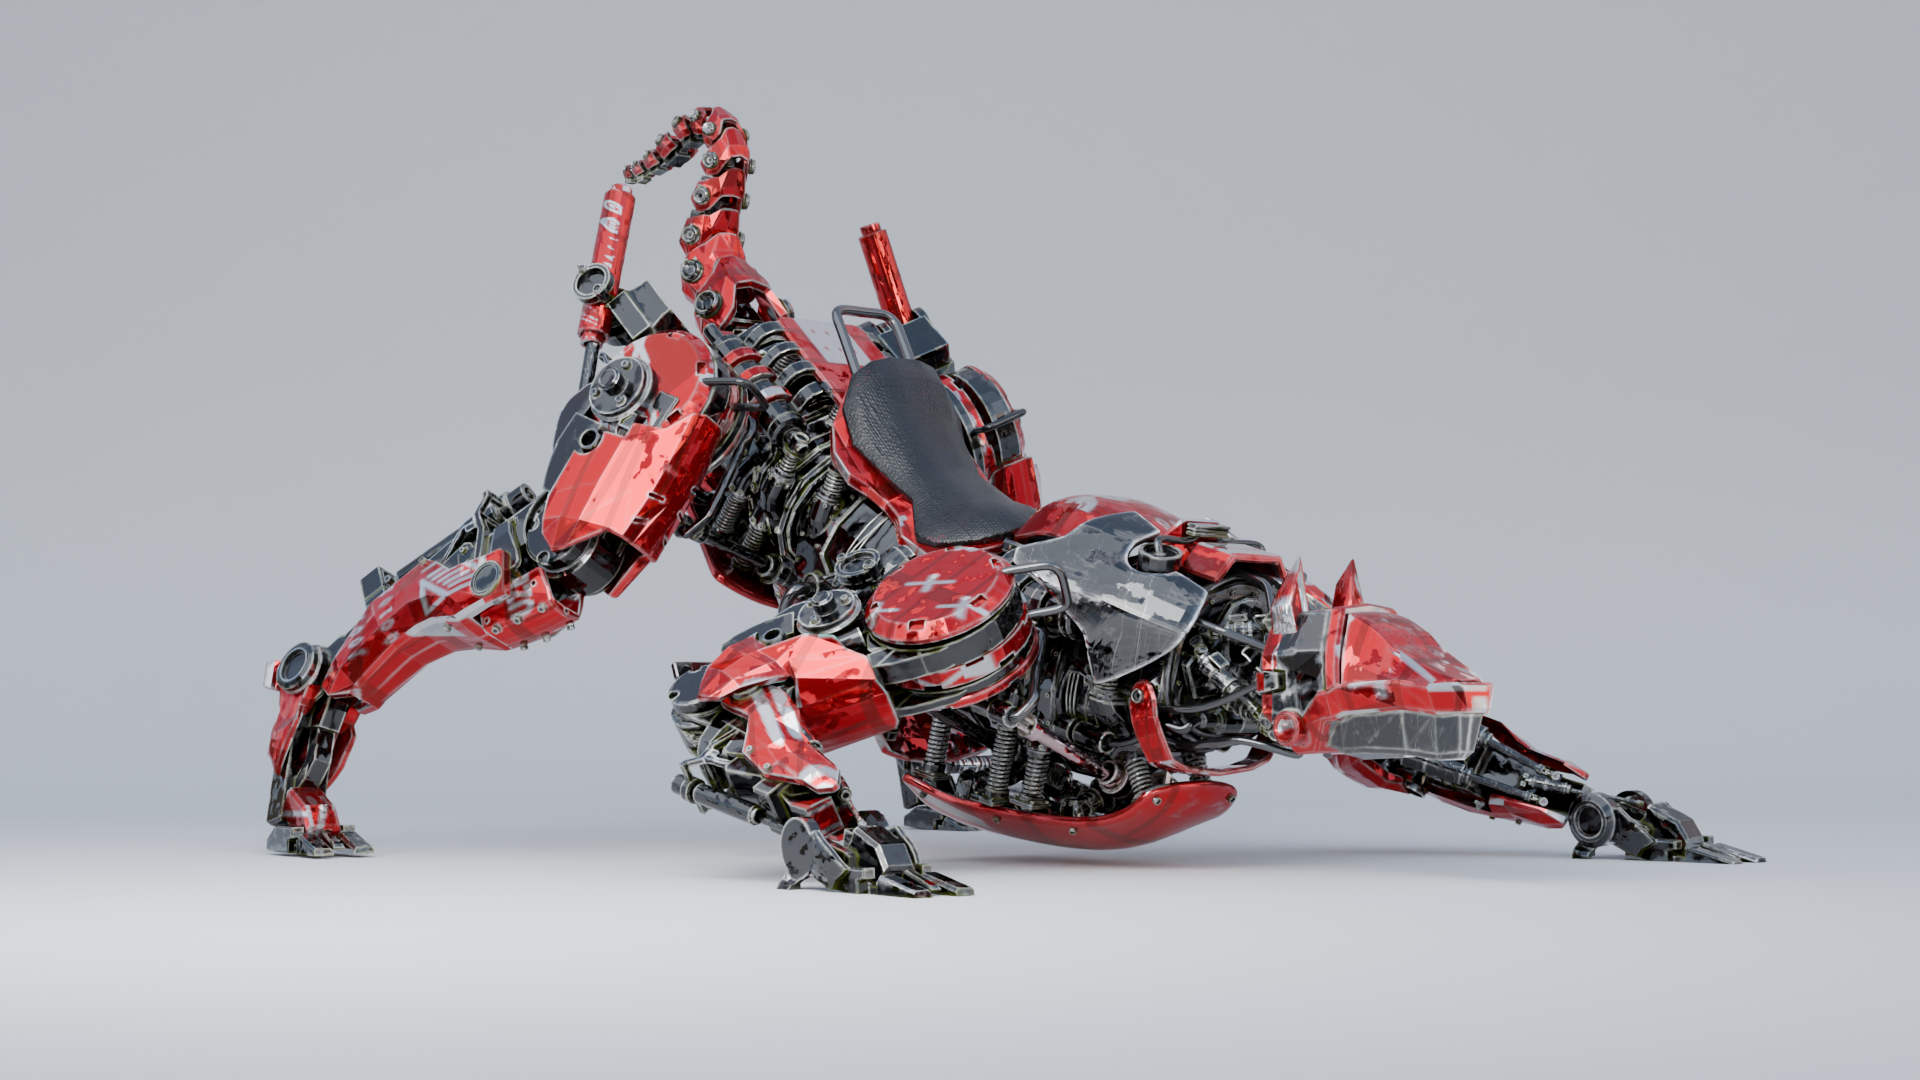
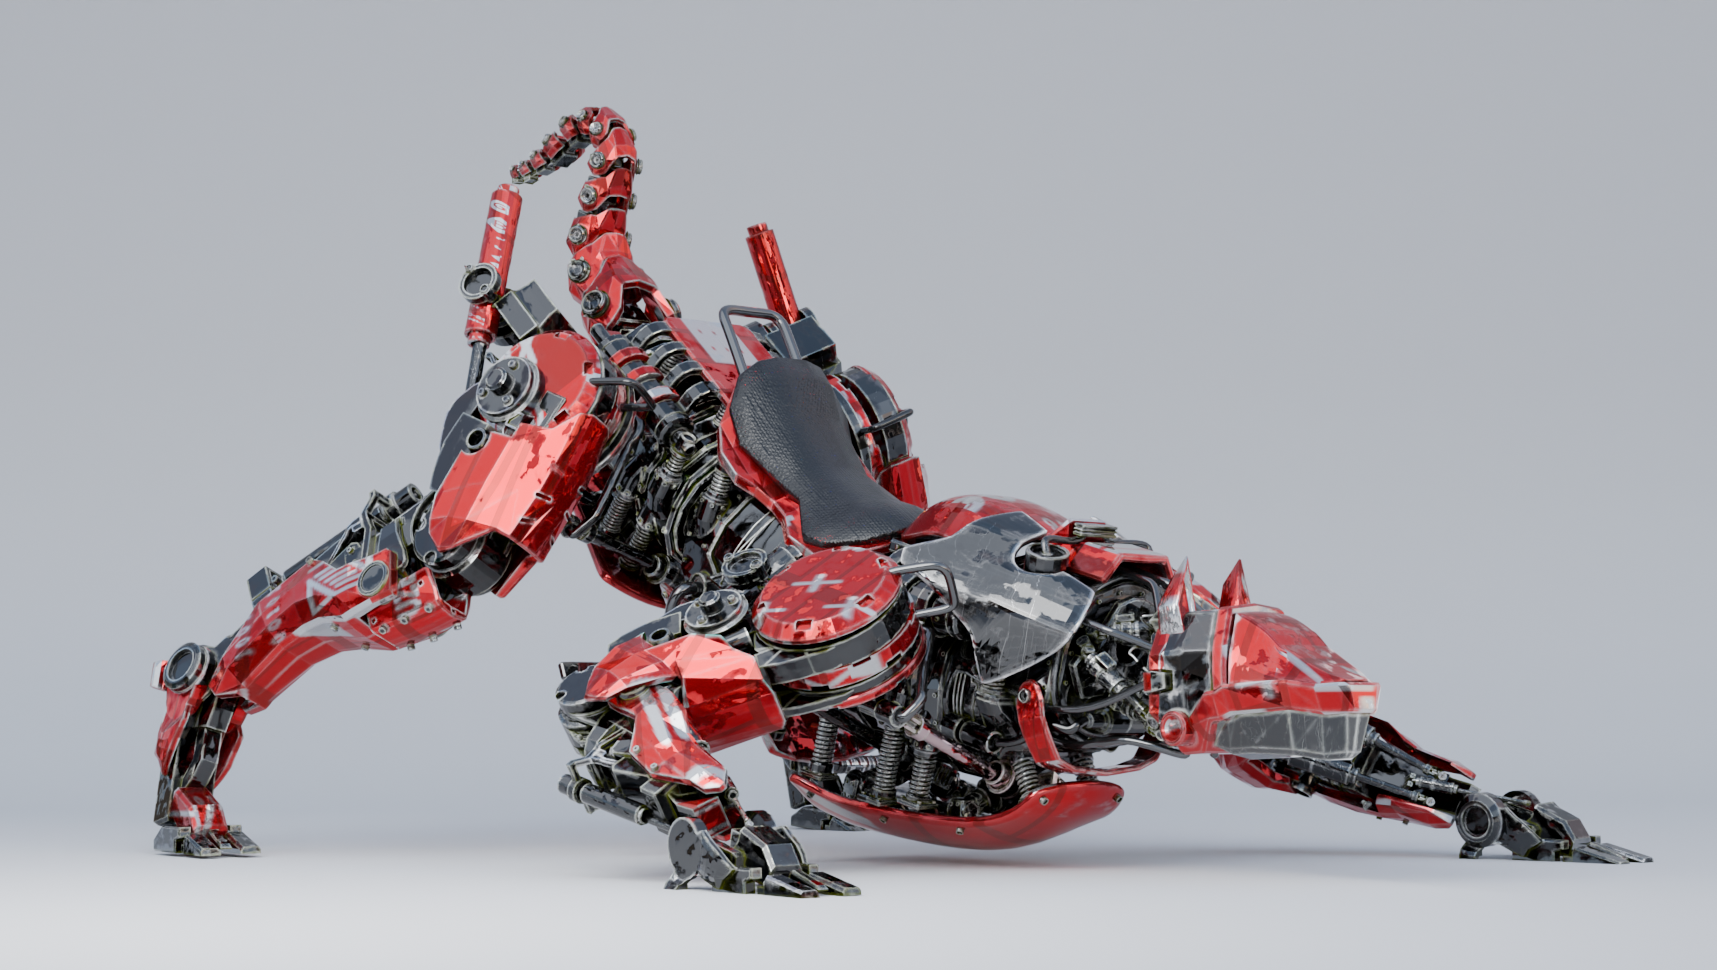
dfs

Changed region(s): [[0.0, 0.0928, 0.9569, 0.9278]]

diff --git a/js/main.js b/js/main.js
@@ -873,7 +873,7 @@ function initWorkCategories() {
             { title: 'CHASE', description: '2分のフルCG映像作品', year: '2024', image: 'images/work28.png' },
             { title: 'U30 3DCG Vision Contest 2022', description: '30秒のフルCG映像作品', year: '2024', image: 'images/work9.png' },
             { title: 'オリジナルキャラクター制作', description: '人物キャラクター研究制作', year: '2023', image: 'images/work58.png' },
-            { title: 'ハードサーフィスキャラクター製作1', description: '機械、仕組みに重きを置いたキャラクター製作', year: '2024', image: 'images/work16.png' }
+            { title: 'ハードサーフィスキャラクター製作1', description: '機械、仕組みに重きを置いたキャラクター製作', year: '2024', image: 'images/74.png' }
         ],
         work: [
             { title: '祇園銀座百鬼夜行<br>京都市立芸術大学展示', description: '48秒のVFX映像作品', year: '2024', image: 'images/work2.png' },
@@ -888,7 +888,7 @@ function initWorkCategories() {
         ],
         personal: [
             { title: 'オリジナルキャラクター制作', description: '人物キャラクター研究制作', year: '2023', image: 'images/work58.png', workId: 'work9' },
-            { title: 'ハードサーフィスキャラクター製作1', description: '機械、仕組みに重きを置いたキャラクター製作', year: '2024', image: 'images/work16.png', workId: 'work10' },
+            { title: 'ハードサーフィスキャラクター製作1', description: '機械、仕組みに重きを置いたキャラクター製作', year: '2024', image: 'images/74.png', workId: 'work10' },
             { title: 'CHASE', description: '2分のフルCG映像作品', year: '2024', image: 'images/work28.png', workId: 'work7' },
             { title: 'U30 3DCG Vision Contest 2022', description: '30秒のフルCG映像作品', year: '2024', image: 'images/work9.png', workId: 'work8' }
         ]
@@ -1337,7 +1337,7 @@ const worksData = {
     'work10': {
         title: 'ハードサーフィスキャラクター1',
         year: '2026',
-        images: ['images/work16.png', 'images/25.png', 'images/work49.png', 'images/work48.png'],
+        images: ['images/74.png', 'images/25.png', 'images/work49.png', 'images/work48.png'],
         videoLink: 'https://youtu.be/d2KwTnd51R0',
         description: `
             <h4>概要</h4>
